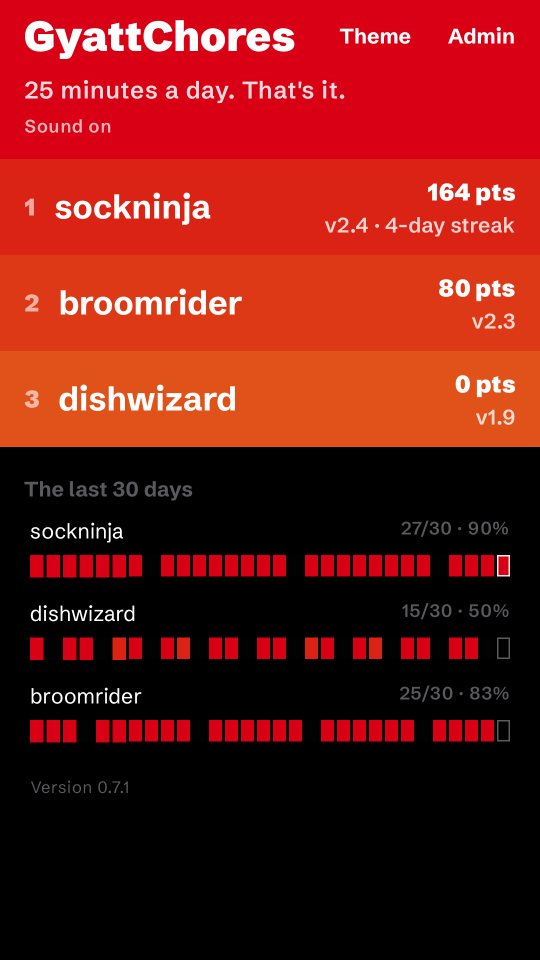
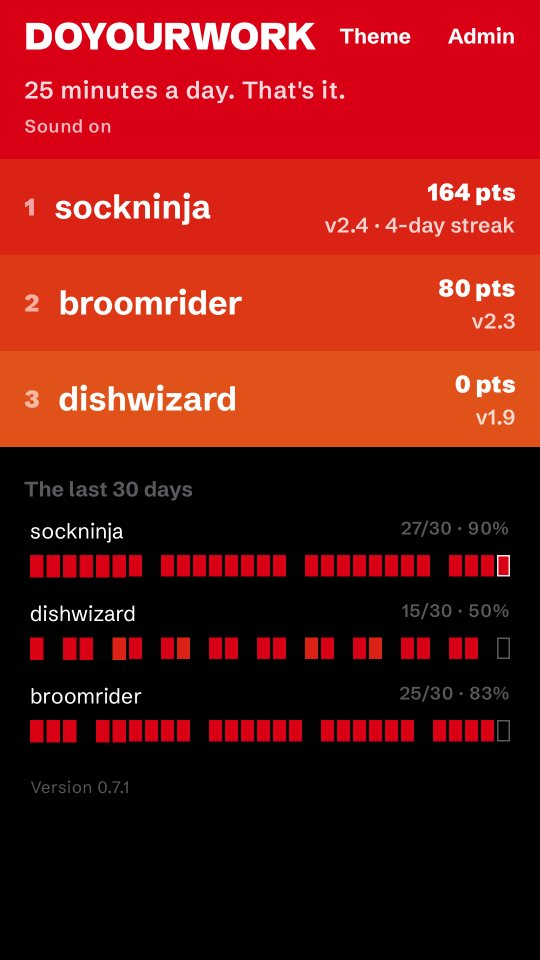
Site: the app is now called DOYOURWORK
The brand changes everywhere a visitor reads it, and the screenshots are
retaken from the renamed app. The site's address stays gyattchores.com.

Claude-Session: https://claude.ai/code/session_01RwYeaYoFbVjV6Kp89FdzM6

Changed region(s): [[0.0296, 0.0, 0.5926, 0.0625]]

diff --git a/index.html b/index.html
@@ -3,10 +3,10 @@
 <head>
 <meta charset="UTF-8">
 <meta name="viewport" content="width=device-width, initial-scale=1.0">
-<title>GyattChores — the private chore scoreboard. Coming soon to iPhone, iPad and Android.</title>
+<title>DOYOURWORK — the private chore scoreboard. Coming soon to iPhone, iPad and Android.</title>
 <meta name="description" content="A chore scoreboard for your household: 25 minutes a day each, approved by an admin. No accounts, no sign-up, and nothing ever leaves your device. Coming soon to iPhone, iPad and Android. Join the beta.">
 <meta name="theme-color" content="#D90015">
-<meta property="og:title" content="GyattChores — the private chore scoreboard">
+<meta property="og:title" content="DOYOURWORK — the private chore scoreboard">
 <meta property="og:description" content="25 minutes a day. That's it. No accounts, and nothing ever leaves your device. Coming soon to iPhone, iPad and Android.">
 <meta property="og:type" content="website">
 <meta property="og:url" content="https://gyattchores.com/">
@@ -37,7 +37,7 @@ a:hover { text-decoration: underline; }
 
 nav { position: sticky; top: 0; z-index: 10; background: var(--h1); }
 nav .wrap { display: flex; align-items: center; justify-content: space-between; gap: 12px; min-height: 58px; }
-.brand { color: #fff; font-weight: 900; font-size: 1.3rem; letter-spacing: -0.3px; }
+.brand { color: #fff; font-weight: 900; font-size: 1.25rem; letter-spacing: 0.2px; }
 .brand:hover { text-decoration: none; }
 .links { display: flex; align-items: center; gap: 24px; font-weight: 600; font-size: 0.95rem; }
 .links a { color: #fff; }
@@ -142,7 +142,7 @@ footer a:hover { color: #fff; }
 
 <nav>
   <div class="wrap">
-    <a class="brand" href="/" aria-label="GyattChores home">GyattChores</a>
+    <a class="brand" href="/" aria-label="DOYOURWORK home">DOYOURWORK</a>
     <div class="links">
       <a href="#how">How it works</a>
       <a href="#private">Privacy</a>
@@ -159,7 +159,7 @@ footer a:hover { color: #fff; }
     <div class="copy">
       <span class="pill">Coming soon to iPhone, iPad and Android</span>
       <h1>25 minutes a day. That's it.</h1>
-      <p class="lead">GyattChores is a chore scoreboard for your household. Everyone picks a few chores, an admin approves what got done, and points, streaks and a weekly winner follow.</p>
+      <p class="lead">DOYOURWORK is a chore scoreboard for your household. Everyone picks a few chores, an admin approves what got done, and points, streaks and a weekly winner follow.</p>
       <p class="lead" style="margin-top:12px"><b>No accounts. No sign-up. Nothing ever leaves your device.</b></p>
       <div class="row">
         <a class="btn white" href="#beta">Join the beta</a>
@@ -167,7 +167,7 @@ footer a:hover { color: #fff; }
       </div>
       <p class="fine">In testing now. The beta is free and has no ads.</p>
     </div>
-    <img class="shot" src="/img/scoreboard.jpg" width="540" height="960" alt="The GyattChores scoreboard: this week's standings for three players, sockninja in the lead, and a 30-day log showing who hit 25 minutes each day.">
+    <img class="shot" src="/img/scoreboard.jpg" width="540" height="960" alt="The DOYOURWORK scoreboard: this week's standings for three players, sockninja in the lead, and a 30-day log showing who hit 25 minutes each day.">
   </div>
 </section>
 
@@ -175,7 +175,7 @@ footer a:hover { color: #fff; }
   <div class="wrap">
     <div class="eyebrow">Why it exists</div>
     <p class="quote" style="margin-top:12px">A bowling alley doesn't ask who you are before it lets you play. It puts your name on a screen and keeps score. That's all a house full of chores needs too.</p>
-    <p class="after">GyattChores started as one family's scoreboard, and that's still what it is: names, chores, points and a weekly winner, on a phone or tablet the household shares. There's no account to make, no email to hand over, and no database on our side holding your family's names.</p>
+    <p class="after">DOYOURWORK started as one family's scoreboard, and that's still what it is: names, chores, points and a weekly winner, on a phone or tablet the household shares. There's no account to make, no email to hand over, and no database on our side holding your family's names.</p>
   </div>
 </section>
 
@@ -242,7 +242,7 @@ footer a:hover { color: #fff; }
     <div>
       <div class="eyebrow muted">One device, one scoreboard</div>
       <h2>Put it where the household can see it.</h2>
-      <p class="muted">GyattChores runs on a single phone or tablet that everyone shares: the tablet in the kitchen, or a parent's phone. On a tablet or an unfolded foldable, the scoreboard and the day's card sit side by side.</p>
+      <p class="muted">DOYOURWORK runs on a single phone or tablet that everyone shares: the tablet in the kitchen, or a parent's phone. On a tablet or an unfolded foldable, the scoreboard and the day's card sit side by side.</p>
       <ul class="ticks">
         <li><b>Admins run it.</b> Make anyone an admin, each with their own code. Admins approve chores and manage players and the chore list.</li>
         <li><b>Players make it theirs.</b> Fifteen colour themes, and everyone can give themselves a display name. The sillier the better.</li>
@@ -311,7 +311,7 @@ footer a:hover { color: #fff; }
 
 <footer>
   <div class="wrap">
-    <span>© 2026 GyattChores. 25 minutes a day. That's it.</span>
+    <span>© 2026 DOYOURWORK. 25 minutes a day. That's it.</span>
     <span><a href="/app.html">Support</a> &nbsp;·&nbsp; <a href="/app-privacy.html">Privacy policy</a> &nbsp;·&nbsp; <a href="#beta">Join the beta</a></span>
   </div>
 </footer>
@@ -322,17 +322,17 @@ footer a:hover { color: #fff; }
   var address = ['matt', 'gissentanna.com'].join('@');
   var link = document.getElementById('beta-address');
   link.textContent = address;
-  link.href = 'mailto:' + address + '?subject=' + encodeURIComponent('GyattChores beta');
+  link.href = 'mailto:' + address + '?subject=' + encodeURIComponent('DOYOURWORK beta');
 
   document.getElementById('beta-form').addEventListener('submit', function (event) {
     event.preventDefault();
     var name = document.getElementById('f-name').value.trim();
     var device = document.getElementById('f-device').value;
     var size = document.getElementById('f-size').value.trim();
-    var lines = ["Hi, I'd like to join the GyattChores beta.", '', 'Device: ' + device];
+    var lines = ["Hi, I'd like to join the DOYOURWORK beta.", '', 'Device: ' + device];
     if (size) lines.push('People doing chores at home: ' + size);
     if (name) lines.push('', name);
-    window.location.href = 'mailto:' + address + '?subject=' + encodeURIComponent('GyattChores beta') +
+    window.location.href = 'mailto:' + address + '?subject=' + encodeURIComponent('DOYOURWORK beta') +
       '&body=' + encodeURIComponent(lines.join('\n'));
   });
 

diff --git a/app-privacy.html b/app-privacy.html
@@ -4,8 +4,8 @@
 <meta charset="UTF-8">
 <meta name="viewport" content="width=device-width, initial-scale=1.0">
 <meta name="theme-color" content="#ffffff">
-<meta name="description" content="GyattChores for iPhone and iPad collects nothing. Everything stays on your device.">
-<title>Privacy Policy — GyattChores</title>
+<meta name="description" content="DOYOURWORK for iPhone and iPad collects nothing. Everything stays on your device.">
+<title>Privacy Policy — DOYOURWORK</title>
 <style>
 * { box-sizing: border-box; margin: 0; padding: 0; }
 body { background: #fff; color: #111; font-family: 'Courier New', Courier, monospace; line-height: 1.75; }
@@ -30,7 +30,7 @@ hr { border: none; border-top: 1px solid #e5e5e5; margin: 12px 0; }
 </head>
 <body>
 <nav>
-  <a href="/" class="nav-brand">GYATTCHORES</a>
+  <a href="/" class="nav-brand">DOYOURWORK</a>
   <div class="nav-links">
     <a href="/">home</a>
     <a href="/app.html">support</a>
@@ -39,11 +39,11 @@ hr { border: none; border-top: 1px solid #e5e5e5; margin: 12px 0; }
 </nav>
 <div class="container">
   <h1>Privacy Policy</h1>
-  <p class="meta">GYATTCHORES FOR IPHONE AND IPAD &nbsp;·&nbsp; LAST UPDATED NOVEMBER 13, 2026</p>
+  <p class="meta">DOYOURWORK FOR IPHONE AND IPAD &nbsp;·&nbsp; LAST UPDATED NOVEMBER 13, 2026</p>
   <hr>
 
   <h2>The short version</h2>
-  <p><strong>GyattChores for iPhone and iPad collects nothing.</strong> Everything you put into it stays on the device you put it into. There is no account, no sign-in, and no server of ours for it to be sent to. We can't see your family's names, chores or points, and neither can anyone else.</p>
+  <p><strong>DOYOURWORK for iPhone and iPad collects nothing.</strong> Everything you put into it stays on the device you put it into. There is no account, no sign-in, and no server of ours for it to be sent to. We can't see your family's names, chores or points, and neither can anyone else.</p>
 
   <h2>What the app keeps, and where</h2>
   <p>To work as a scoreboard the app stores, on your device only:</p>
@@ -65,7 +65,7 @@ hr { border: none; border-top: 1px solid #e5e5e5; margin: 12px 0; }
   </ul>
 
   <h2>Children</h2>
-  <p>Households with children use GyattChores, usually on a device a parent sets up. Because the app collects no information from anyone, it collects none from children. Nicknames work as well as real names, and we suggest using them.</p>
+  <p>Households with children use DOYOURWORK, usually on a device a parent sets up. Because the app collects no information from anyone, it collects none from children. Nicknames work as well as real names, and we suggest using them.</p>
 
   <h2>Face ID and Touch ID</h2>
   <p>An admin can choose to open the admin area with Face ID or Touch ID. This is off unless you turn it on. Your device does the check and tells the app only yes or no; the app never sees your face or fingerprint.</p>

diff --git a/app.html b/app.html
@@ -4,8 +4,8 @@
 <meta charset="UTF-8">
 <meta name="viewport" content="width=device-width, initial-scale=1.0">
 <meta name="theme-color" content="#ffffff">
-<meta name="description" content="GyattChores for iPhone and iPad: a private chore scoreboard for your household. Support and common questions.">
-<title>The app — GyattChores</title>
+<meta name="description" content="DOYOURWORK for iPhone and iPad: a private chore scoreboard for your household. Support and common questions.">
+<title>The app — DOYOURWORK</title>
 <style>
 * { box-sizing: border-box; margin: 0; padding: 0; }
 body { background: #fff; color: #111; font-family: 'Courier New', Courier, monospace; line-height: 1.75; }
@@ -30,7 +30,7 @@ hr { border: none; border-top: 1px solid #e5e5e5; margin: 12px 0; }
 </head>
 <body>
 <nav>
-  <a href="/" class="nav-brand">GYATTCHORES</a>
+  <a href="/" class="nav-brand">DOYOURWORK</a>
   <div class="nav-links">
     <a href="/">home</a>
     <a href="/app.html">support</a>
@@ -38,7 +38,7 @@ hr { border: none; border-top: 1px solid #e5e5e5; margin: 12px 0; }
   </div>
 </nav>
 <div class="container">
-  <h1>GyattChores for iPhone and iPad</h1>
+  <h1>DOYOURWORK for iPhone and iPad</h1>
   <p class="meta">SUPPORT</p>
   <hr>
 

diff --git a/README.md b/README.md
@@ -1,4 +1,6 @@
-# GyattChores
+# DOYOURWORK
+
+Formerly GyattChores; the repository, the website address and the code keep the old name.
 
 A chore scoreboard for a household: everyone picks about **25 minutes** of chores a day, an admin approves what got done, and points, streaks and a weekly winner follow.
 
